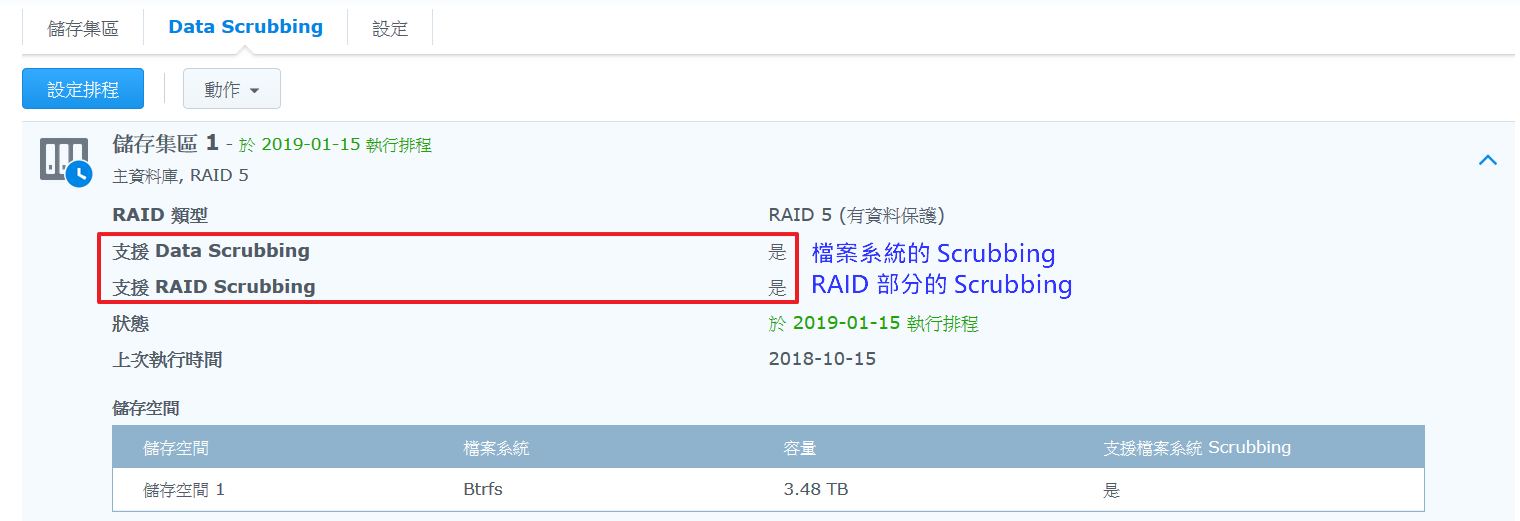
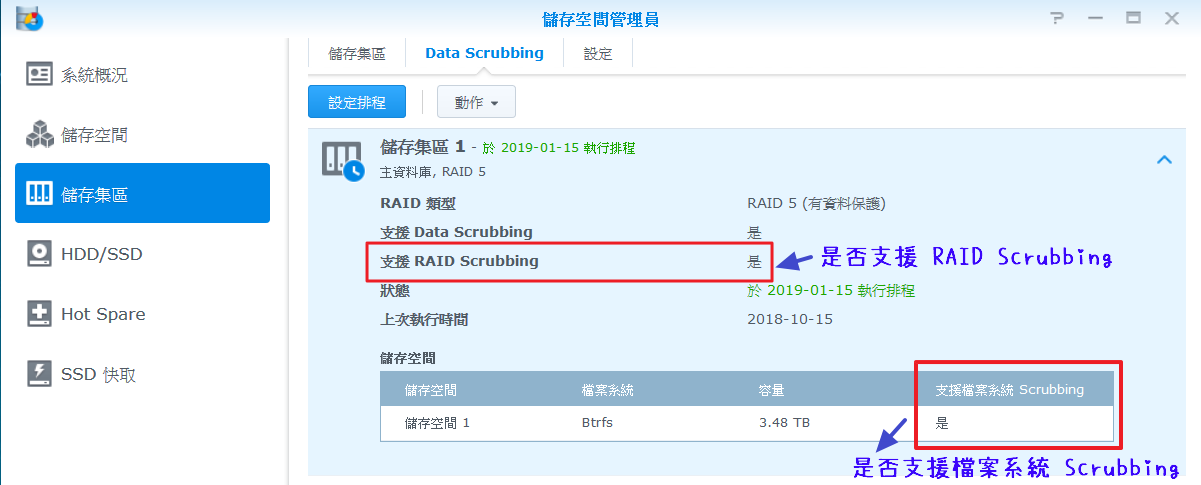
<EDIT> 修改 Synology Data Scrubbing 介紹與分析部分內文錯誤
- 式一筆誤
	- 儲存空間管理員截圖，檔案系統 Scrubbing 標示錯誤
	- 部分語句修正

diff --git a/_posts/2018/11/2018-11-03-synology-data-scrubbing.md b/_posts/2018/11/2018-11-03-synology-data-scrubbing.md
@@ -2,7 +2,7 @@
 layout: post
 title: Synology Data Scrubbing 介紹與分析
 description: "最近有人在詢問 Synology 的 Data Scrubbing 相關的問題，剛好小弟算是小有研究，因此來介紹一下何謂 Data Scrubbing（資料洗滌），以及 Synology 的 Data Scrubbing 可以為我們做些什麼？"
-modified: 2018-11-03
+modified: 2018-11-04
 tags: [小法師]
 categories: [NAS 與資料備份]
 image:
@@ -17,7 +17,7 @@ image:
 
 ## 何謂 RAID？
 
-　　講到 Data Scrubbing 勢必得提一下什麼是 RAID。RAID 在 wiki 上的中文翻譯是[容錯式磁碟陣列](https://zh.wikipedia.org/wiki/RAID)，簡單來說，RAID 是將多顆硬碟組合起來形成一個較大的空間，從上層的檔案系統角度來看，他就像一顆硬碟一樣。而 RAID 根據硬碟資料組合的方法不同，還可以分為 RAID0、RAID1、RAID5 以及 RAID6 等模式，一般家用 RAID 最常用的就是 RAID1 和 RAID5 這兩種，以下簡單介紹這兩種類型。
+　　講到 Data Scrubbing 勢必得提一下什麼是 RAID。RAID 在 wiki 上的中文翻譯是[容錯式磁碟陣列](https://zh.wikipedia.org/wiki/RAID)，簡單來說，RAID 是將多顆硬碟組合起來形成一個較大的空間，從上層的檔案系統角度來看，他就像一顆硬碟一樣。而 RAID 根據硬碟資料組合的方法不同，還可以分為 RAID0、RAID1、RAID5 以及 RAID6 等模式，一般家用 NAS 最常用的就是 RAID1 和 RAID5 這兩種，以下簡單介紹這兩種類型的功能及特性。
 
 #### RAID1
 
@@ -27,13 +27,13 @@ image:
 <img src="/images/2018/11/synology-scrubbing-01.png" alt="">
 </figure>
 
-　　RAID 1 在寫入時，資料同時會對所有硬碟進行寫入；讀取時，由於所有硬碟有著相同資料，所以可從任一顆硬碟內讀取，一般系統會進行一定程度的負載平衡 (load balance)，當其中一顆較忙碌時會切換到另外一顆進行讀取，以提高效能。RAID1 也是 2bay (2硬碟插槽) NAS 的常見選擇。
+　　RAID 1 在寫入時，資料同時會對所有硬碟進行寫入；讀取時，由於所有硬碟有著相同資料，所以可從任一顆硬碟內讀取，一般系統會進行一定程度的負載平衡 (Load Balance)，當其中一顆較忙碌時會切換到另外一顆進行讀取，以提高效能。RAID1 也是 2bay (2硬碟插槽) NAS 的常見選擇。
 
 #### RAID5
 
 　　RAID5 稍微複雜一些，需要至少 3 顆以上的硬碟參與，他允許陣列中的任意一顆硬碟或損毀，而故障硬碟的原始內容可以由另外兩顆硬碟計算恢復，恢復的原理是使用奇偶校驗資訊。
 
-　　首先 RAID5 會對硬碟位置進行位址劃分，在我們要寫入一塊連續資料到陣列時，他會依照 A1, A2, A3, B1, B2, B3 ... 的順序寫入到硬碟中時；而讀取時，同樣依照 A1, A2, A3, B1, B2, B3 ... 讀取，如下圖：
+　　首先 RAID5 會對硬碟位置進行位址劃分，在我們要寫入一塊連續資料到陣列時，他會依照 A1, A2, A3, B1, B2, B3 ... 的順序寫入到硬碟中；而讀取時，同樣依照 A1, A2, A3, B1, B2, B3 ... 讀取，如下圖：
 
 <figure class="mid center">
 <img src="/images/2018/11/synology-scrubbing-02.png" alt="">
@@ -41,7 +41,7 @@ image:
 
 　　那圖中的 Ap, Bp, Cp 呢？這些就是所謂的奇偶校驗區塊 (Parity)。例如RAID5 在寫入 A1 ~ A3 的同時，他還會透過一種特殊的數學式 XOR (異或) 計算出 Ap 的內容並寫入到對應位置中，如下：
 
-    Ap = A1 (XOR) A2 (XOR) Ap　　(式一)
+    Ap = A1 (XOR) A2 (XOR) A3　　(式一)
 
 　　當 A1 ~ A3 的其中一顆硬碟故障時，RAID5 可以再利用同樣的數學式 XOR，結合 Ap 及另外的兩顆硬碟內容將遺失的還原出來。例如 A2 所屬硬碟故障了，A2 的內容可以透過以下算式計算而得：
 
@@ -53,7 +53,7 @@ image:
 
 ## 資料一致性 (Data Consistency) 與 RAID Scrubbing
 
-　　我們知道 RAID5 的特性了，接下來我們就可以說明 RAID 的資料一致性。首先我們知道 RAID5 每顆硬碟的內容有著 式一 的數學關係式，如果關係式滿足的話，我們就說資料在 RAID 中是一致的，因為當有硬碟故障時，該內容才可以用 式二 計算出冗餘備份還原回來；如果沒有滿足的話，我們就稱之為不一致，此時透過 XOR 的關係式求回來的內容就會是錯的而還原失敗。
+　　我們知道 RAID5 的特性了，接下來我們就可以說明 RAID 的資料一致性。首先我們知道 RAID5 每顆硬碟的內容有著 式一 的數學關係式，如果關係式滿足的話，我們就說資料在 RAID 中是一致的，因為當有硬碟故障時，該內容才可以用 式二 計算出冗餘備份還原回來；如果沒有滿足的話，我們就稱之為不一致，此時透過 式二 求回來的內容就會是錯的而還原失敗。
 
 　　資料還原失敗是很嚴重的一件事！因此保持 RAID 資料一致性就很重要，RAID Scrubbing 會掃描磁碟陣列中的所有內容，確保所有的奇偶校驗區塊都滿足 式一，如果不滿足的話就重新算一次把他修正到一致，讓我們保有一致又健康的磁碟陣列，所以定期排程做 Scrubbing 是很重要的。
 
@@ -61,15 +61,15 @@ image:
 
 ## 檔案系統的 Data Scrubbing
 
-　　定期排程 Scrubbing，資料就可以受到 RAID 妥善的保護，這樣就可以高枕無憂了嗎？很可惜這個答案是**否定**的，因為資料並不是寫入硬碟之後就永遠會保持正確，硬碟有時候會遭遇一些沒有預兆的資料錯誤 (Silent Data Error)，有可能是物理或電磁特性種種原因，導致原本儲存的檔案內容突然就變了，這種情況就算做過 RAID Scrubbing 也沒用，因為 RAID 無法辨別哪個區塊的資料是錯的，他只能讓資料保持一致，資料一致不等於資料正確，如果其中有人錯了，大家也會錯得一致。
+　　定期排程做 RAID Scrubbing 保持資料一致性就可以高枕無憂了嗎？很可惜這個答案是**否定**的，因為資料並不是寫入硬碟之後就永遠會保持正確，硬碟有時候會遭遇一些沒有預兆的資料錯誤 (Silent Data Error)，有可能是物理或電磁特性等種種原因，導致原本儲存的檔案內容突然就變了，這種情況就算做過 RAID Scrubbing 也沒用，因為 RAID 無法辨別哪個區塊的資料是錯的，他只能讓資料保持一致，資料一致不等於資料正確，如果其中有人錯了，大家也會錯得一致。
 
-　　那該怎麼辦呢？此時就要用到 **btrfs** 檔案系統的 Data Scrubbing 功能，眼尖的使用者可能會注意到儲存空間管理員的 Data Scrubbing 頁面內寫了兩種 Scrubbing，其中 RAID Scrubbing 指的是先前說明有關 RAID 一致性的 Scrubbing，而 Data Scrubbing 指的就是 btrfs 檔案系統的 Scrubbing。
+　　那該怎麼辦呢？此時就要用到 **btrfs** 檔案系統的 Data Scrubbing 功能，眼尖的使用者可能會注意到，儲存空間管理員的 Data Scrubbing 頁面內，除了先前說明有關 RAID 一致性的 RAID Scrubbing 以外，底下的儲存空間資訊內還有檔案系統 Scrubbing 的訊息。
 
 <figure class="center">
 <img src="/images/2018/11/synology-scrubbing-03.png" alt="">
 </figure>
 
-　　btrfs 檔案系統的 Data Scrubbing 是利用檔案的總和檢查碼 (checksum) 做檔案檢查。如果在建立共用資料夾的時候有勾選"資料總和檢查碼以進行進階資料保護"的功能的話，檔案系統會為所有寫入的檔案都計算總和檢查碼，並存在檔案系統的中繼資料 (metadata) 中，且中繼資料存有兩份。不過多開啟這個功能是有輕微效能代價的，如果是存放 VM 或是資料庫的共享資料夾，建議是不要開啟這個功能，但存放的是一般文件或是照片的話，對效能影響非常小，所以家用的使用者都可以放心，也務必要打開他！
+　　btrfs 檔案系統的 Data Scrubbing 是利用檔案的總和檢查碼 (checksum) 做檔案檢查。如果在建立共用資料夾的時候有勾選"資料總和檢查碼以進行進階資料保護"功能的話，檔案系統會為所有寫入的檔案都計算總和檢查碼，並存在檔案系統的中繼資料 (metadata) 中，且中繼資料存有兩份。不過多開啟這個功能是有輕微效能代價的，如果是存放 VM 或是資料庫的共享資料夾，建議是不要開啟這個功能，但存放的是一般文件或是照片的話，對效能影響非常小，所以家用的使用者都可以放心，也務必要打開他！
 
 <figure class="large center">
 <img src="/images/2018/11/synology-scrubbing-04.png" alt="">
@@ -83,14 +83,14 @@ image:
 <img src="/images/2018/11/synology-scrubbing-05.png" alt="">
 </figure>
 
-　　Synology 的 Data Scrubbing 實際上便是依序執行了檔案系統 Scrubbing 及 RAID Scrubbing。檔案系統的 Scrubbing 先確保了資料的正確性，而後續的 RAID Scrubbing 則會確保資料的一致性，這樣就可以同時有既正確又一致的健康系統！
+　　Synology 的 Data Scrubbing 實際上便是整合了這兩種 Scrubbing，他會依序執行檔案系統 Scrubbing 及 RAID Scrubbing，檔案系統的 Scrubbing 先確保資料的正確性，而後續的 RAID Scrubbing 則會確保資料的一致性，就可以同時有既正確又一致的健康系統！還沒設定 Data Scrubbing 的讀者，趕快去設定排程吧！
 
 　
 
 ## 常見 Q/A
 **Q: 我的 RAID 類型是 RAID1，為什麼顯示不支援 RAID Scrubbing 呢？**
 
-A: 因為 RAID1 不需要、也無法做 RAID Scrubbing 哦！RAID1 平常在讀取的時候是隨機從兩顆的其中一顆讀取，當 RAID1 Scrubbing 發現不一致時，實際上也無法決定要如何讓他變一致。而 RAID5 在讀取時都是讀資料區塊 (A1, A2, A3, B1...)，而非校驗區塊 (Ap, Bp...)，原則上 RAID5 在 Scrubbing 是選擇 *相信資料區塊*，因此在做 RAID5 Scrubbing 時，實際上是在檢查並更新校驗區塊。且之前做的檔案系統 Scrubbing 已經可以確保資料區塊是正確的，因此 RAID5 也可以相信資料區塊是正確的。
+A: 因為 RAID1 不能做 RAID Scrubbing 哦！RAID1 平常在讀取的時候是隨機從兩顆的其中一顆讀取，當 RAID1 Scrubbing 發現不一致時，也無法決定要如何讓他變一致。而 RAID5 在讀取時都是讀資料區塊 (A1, A2, B1...)，而非校驗區塊 (Ap, Bp, Cp...)，原則上 RAID5 在 Scrubbing 時是選擇 *相信資料區塊*，因此在做 RAID5 Scrubbing 時，實際上是在檢查並更新校驗區塊。且之前做的檔案系統 Scrubbing 已經可以確保資料區塊是正確的，因此 RAID5 也可以相信資料區塊是正確的。
 
 **Q: 我的檔案系統是 ext4，有支援檔案系統層級的 Data Scrubbing 嗎？**
 
